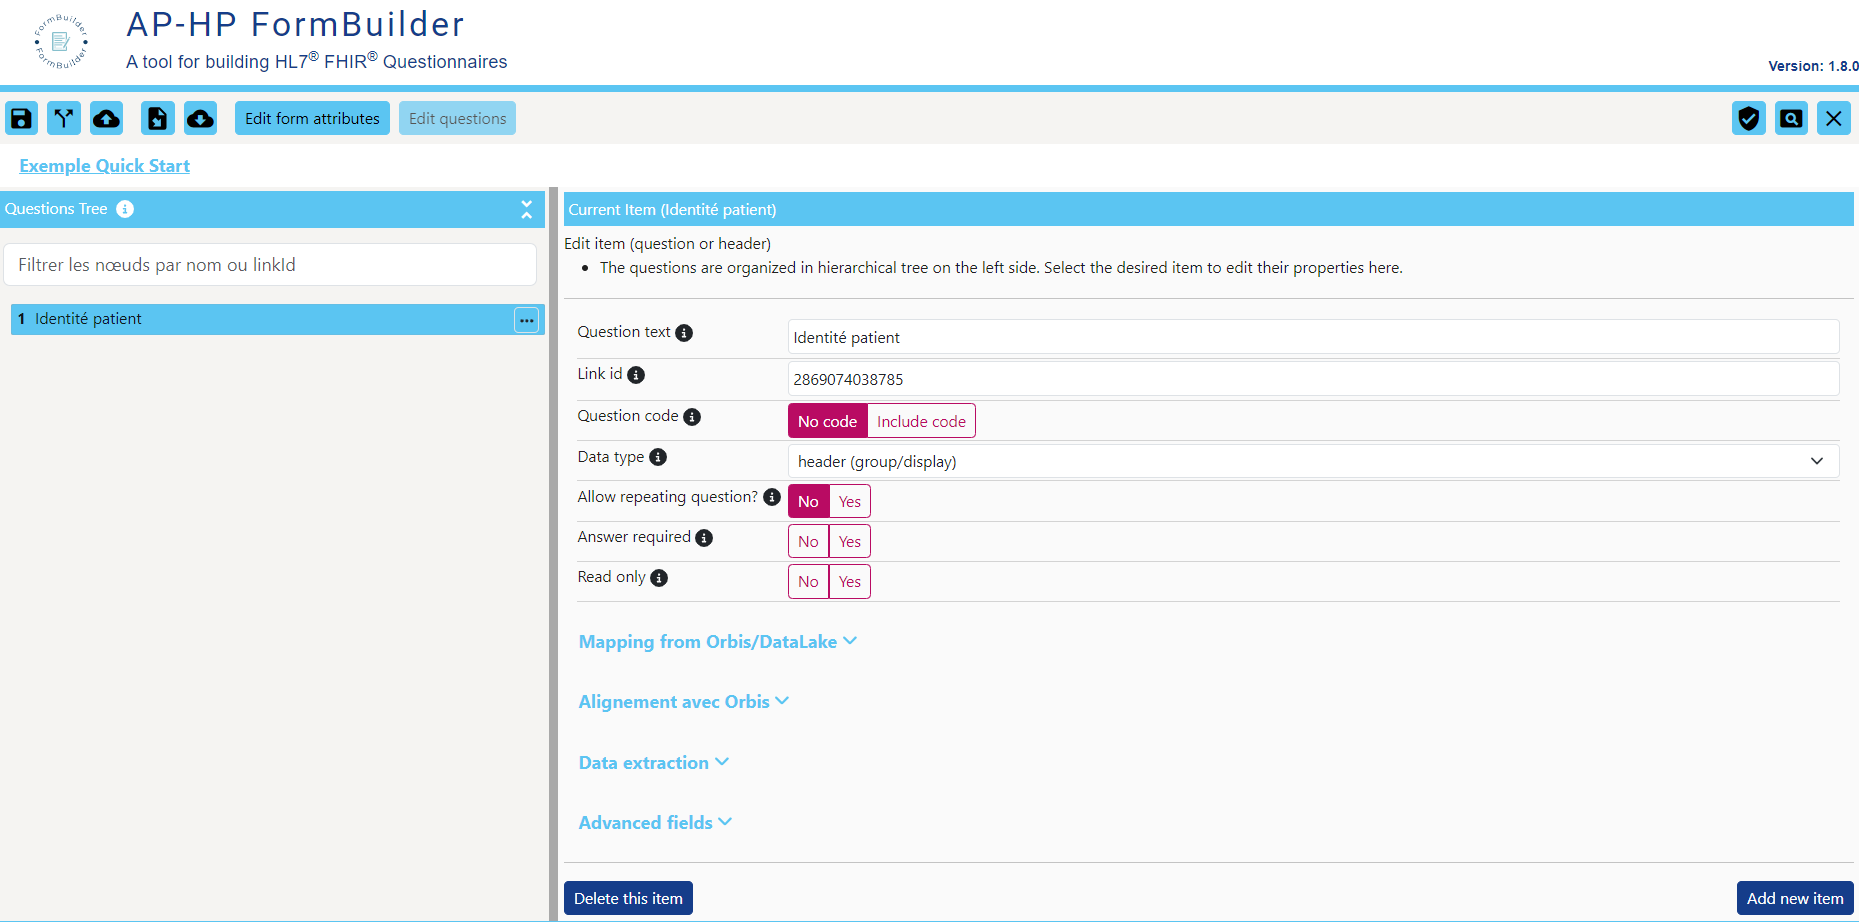
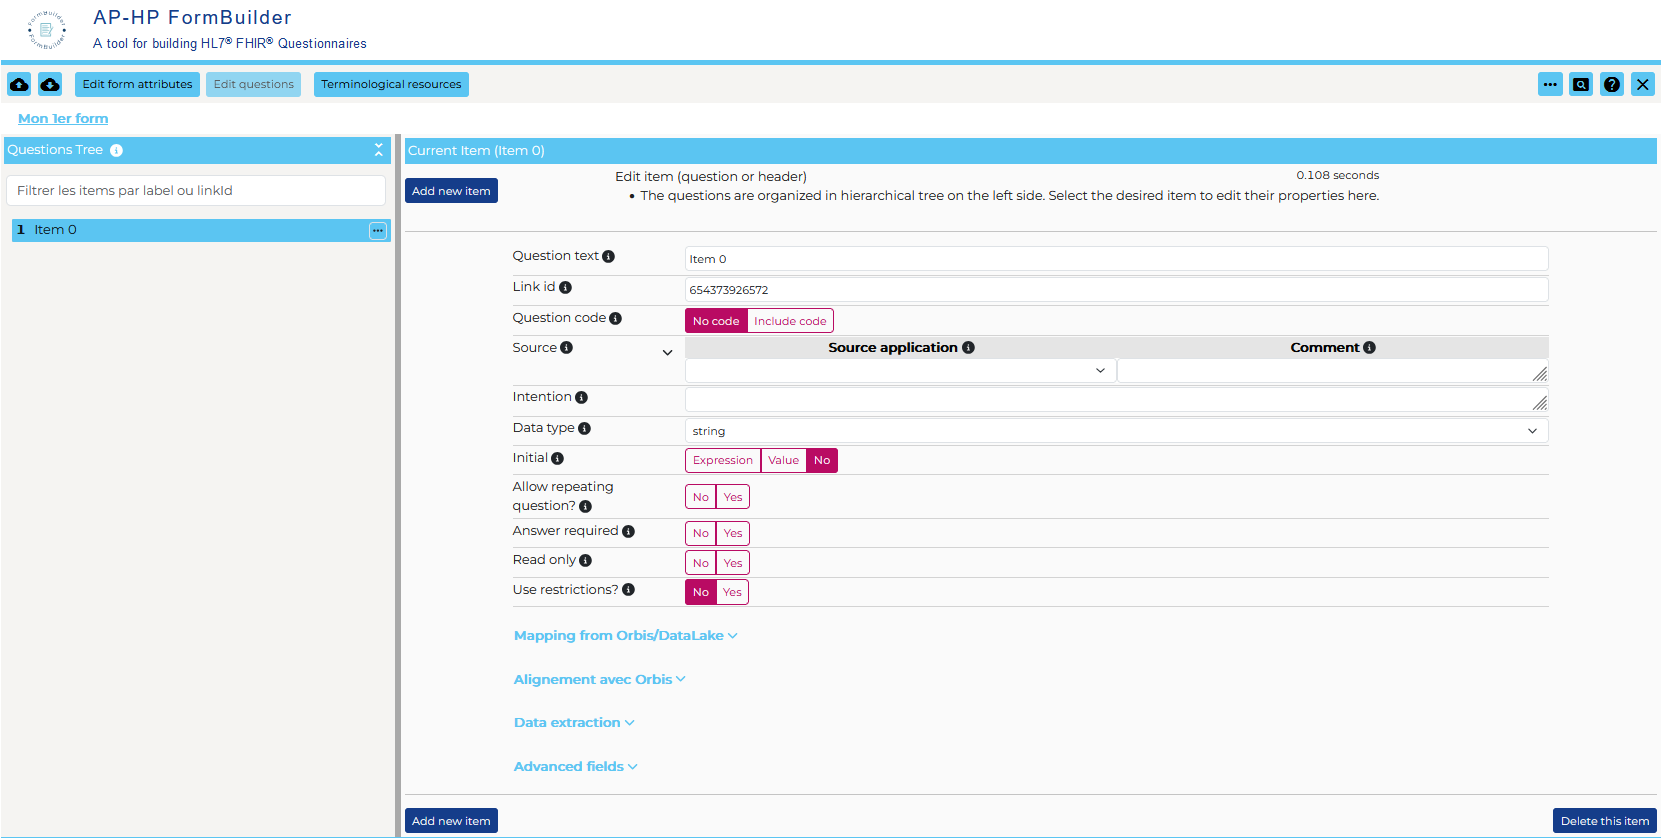
Quick Start

Changed region(s): [[0.0, 0.0, 1.0, 1.0], [0.9369, 0.9308, 1.0, 1.0]]

diff --git a/input/pagecontent/fb-quickstart.md b/input/pagecontent/fb-quickstart.md
@@ -1,0 +1,116 @@
+Here, you'll learn how to create and save your first Questionnaire using AP-HP FormBuilder. 
+
+Chromium-based browser are best supported. 
+
+### FormBuilder connection
+
+The first page when connecting to the formBuilder allow:
+- the selection of an already existing Questionnaire
+- the creation of a new Questionnaire, 
+
+<div style="text-align:center">
+    <a id="barre de menu">
+        <img src="FB_landing_page.png" alt="FormBuilder connection page" width="75%" height="75%">
+    </a>
+</div>
+
+### My first form
+
+Click on the "+" button and provide a Title for your Questionnaire (an ID will be automatically created).
+
+#### My first items
+
+You arrive on the "Item" interface 
+
+Each item defines a **question**, a **grouping element**, or a **label** to be displayed in the form.  
+
+There is by default an "Item 0" in the Questions Tree (on the left). The only mandatory field to fill is the "Data type" field that permit the distinction between the 3 above-mentionned type of item, and, for the question type, the particular type of data to be captured. 
+
+For this first item, we will modify: 
+- Question text : Patient Id,
+- "Source" - "Comment" : information is retrieved from a qualified Patient Identity Source,
+- Data type : header (group/display),
+- Allow repeating question : No,
+- The other fields are left unchanged.
+
+<div style="text-align:center">
+    <a id="item creation">
+        <img src="FB_item_creation_1.png" alt="Item interface of the FormBuilder" width="75%" height="75%">
+    </a>
+</div>
+
+Clicking on the _Add new item_ button at the top/bottom of the page will create a new item after the active one. We will set it up as follow: 
+- Question text : Last name,
+- Data Type : string,
+- Allow repeating question : No,
+- Answer required : No,
+- The other fields are left unchanged.
+
+Drag the '"Last name'item and drop it on the "Patient Id" item in the question tree.
+
+<div style="text-align:center">
+    <a id="dragDrop">
+        <img src="FB_drag_drop.gif" alt="Drag and drop in the question tree">
+    </a>
+</div>
+
+By clicking on the button next to 'Last name' in the tree :
+
+<div style="text-align:center">
+    <a id="FB_bouton_item">
+        <img src="FB_bouton_item.png" alt="Item button in the question tree">
+    </a>
+</div>
+
+We can create the next item directly at the right place in the tree (**after**)
+- Question text : Given name,
+- Data Type : string,
+- Allow repeating question : Yes,
+- Answer required : No,
+- The other fields are left unchanged.
+
+#### Form level attributes
+
+Clicking on the "Edit form attributes" button at the top of the screen will display some Questionnaire level information. The title is already filled and you may enrich: 
+- the status is mandatory, and by default set on 'draft'
+- a description : "This form demonstrates AP-HP FormBuilder for new users",
+- a version : "0.0.1",
+- a publisher : "AP-HP".
+
+<div style="text-align:center">
+    <a id="formLevelAttributes">
+        <img src="FB_form_attributes.png" alt="Form level attributes" width="75%" height="75%">
+    </a>
+</div>
+
+### Save my form
+
+<span>You can save your form on the FHIR server, via this button:<img src="save.png" alt="save" width="50%" height="50%"> (on the top left of the screen).</span>
+
+### Preview form
+
+<span>You may preview your form using this button:<img src="preview.png" alt="preview" width="4%" height="4%">(on the top left of the screen).</span>
+
+<div style="text-align:center">
+    <a id="FB_preview_rendered">
+        <img src="FB_preview_rendered.png" alt="Preview" width="50%" height="50%">
+    </a>
+</div>
+
+### Find my form
+You can find your form using the search engine, e.g. by its title:
+
+<div style="text-align:center">
+    <a id="FB_loading">
+        <img src="FB_import_from_server.gif" alt="Loading from fhir server" width="67%" height="67%">
+    </a>
+</div>
+
+### IG integration of my form
+The created FHIR Questionnaire can be published in a FHIR Implementation Guide for diffusion:
+
+[My first form](Questionnaire-Myfirstform.html)
+
+
+
+{% include markdown-link-references.md %}

diff --git a/input/pagecontent/change_log.md b/input/pagecontent/change_log.md
@@ -11,7 +11,7 @@ Given a version number MAJOR.MINOR.PATCH, increment the:
   <summary>Click here to view the changed bring with version 1.0.0</summary>
 <b>Addition</b>
 <ul>
-    <li>xxx</li>
+    <li>Quickstart</li>
 </ul>
 <b>Correction :</b>
 <ul>
